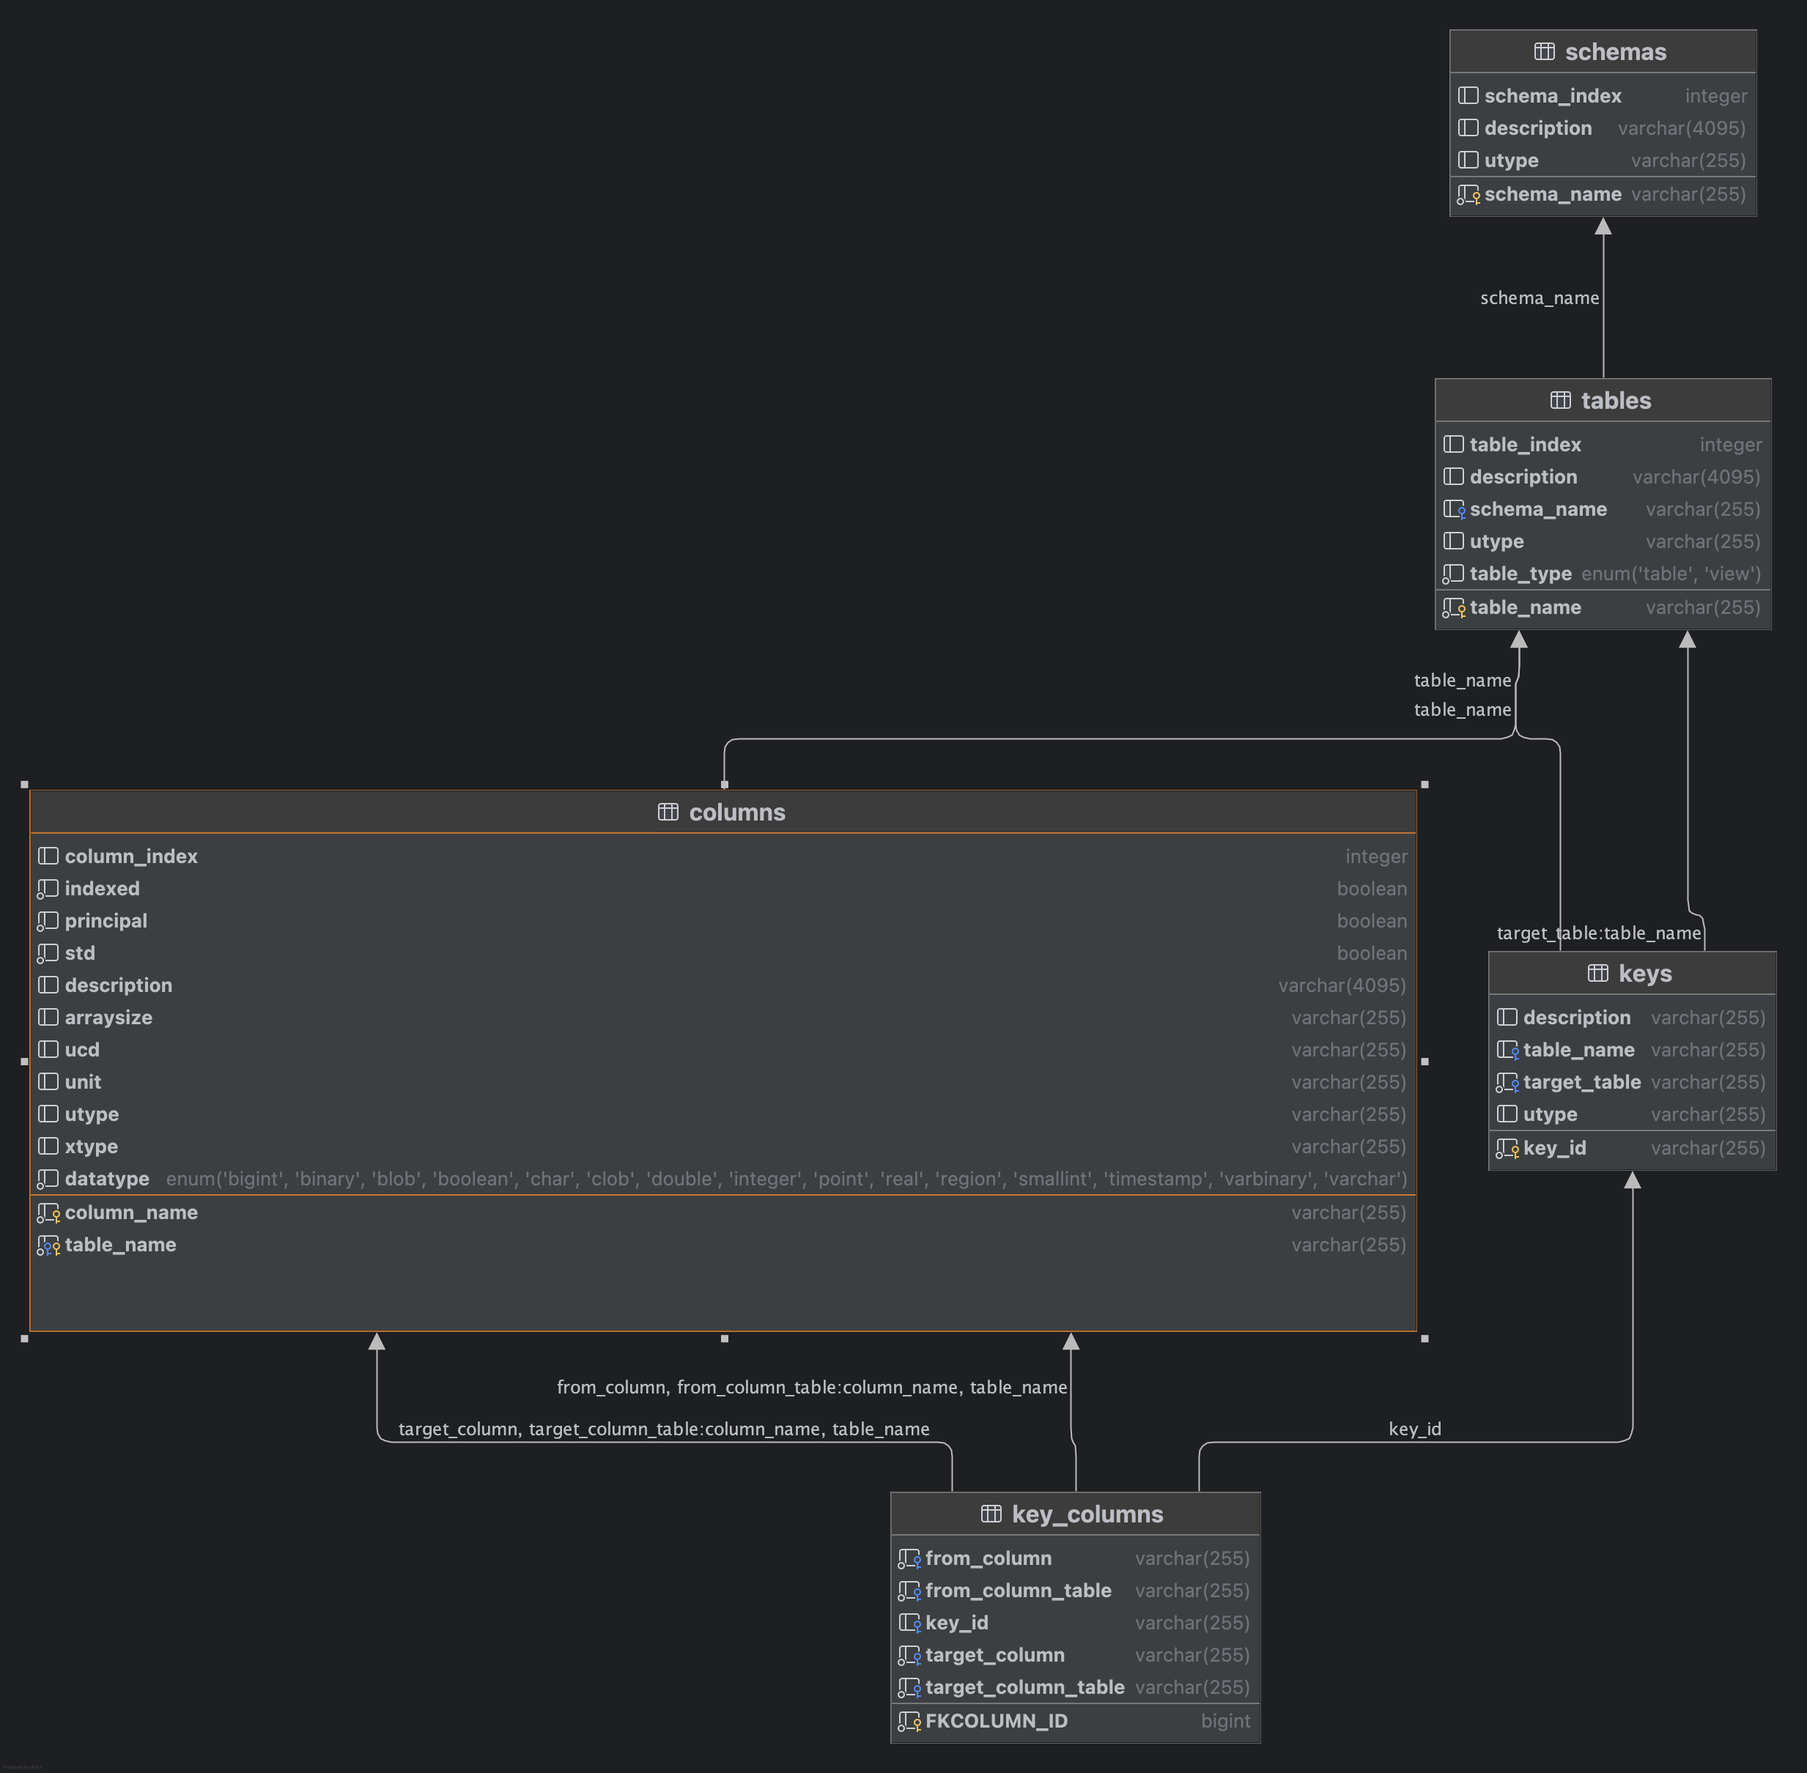
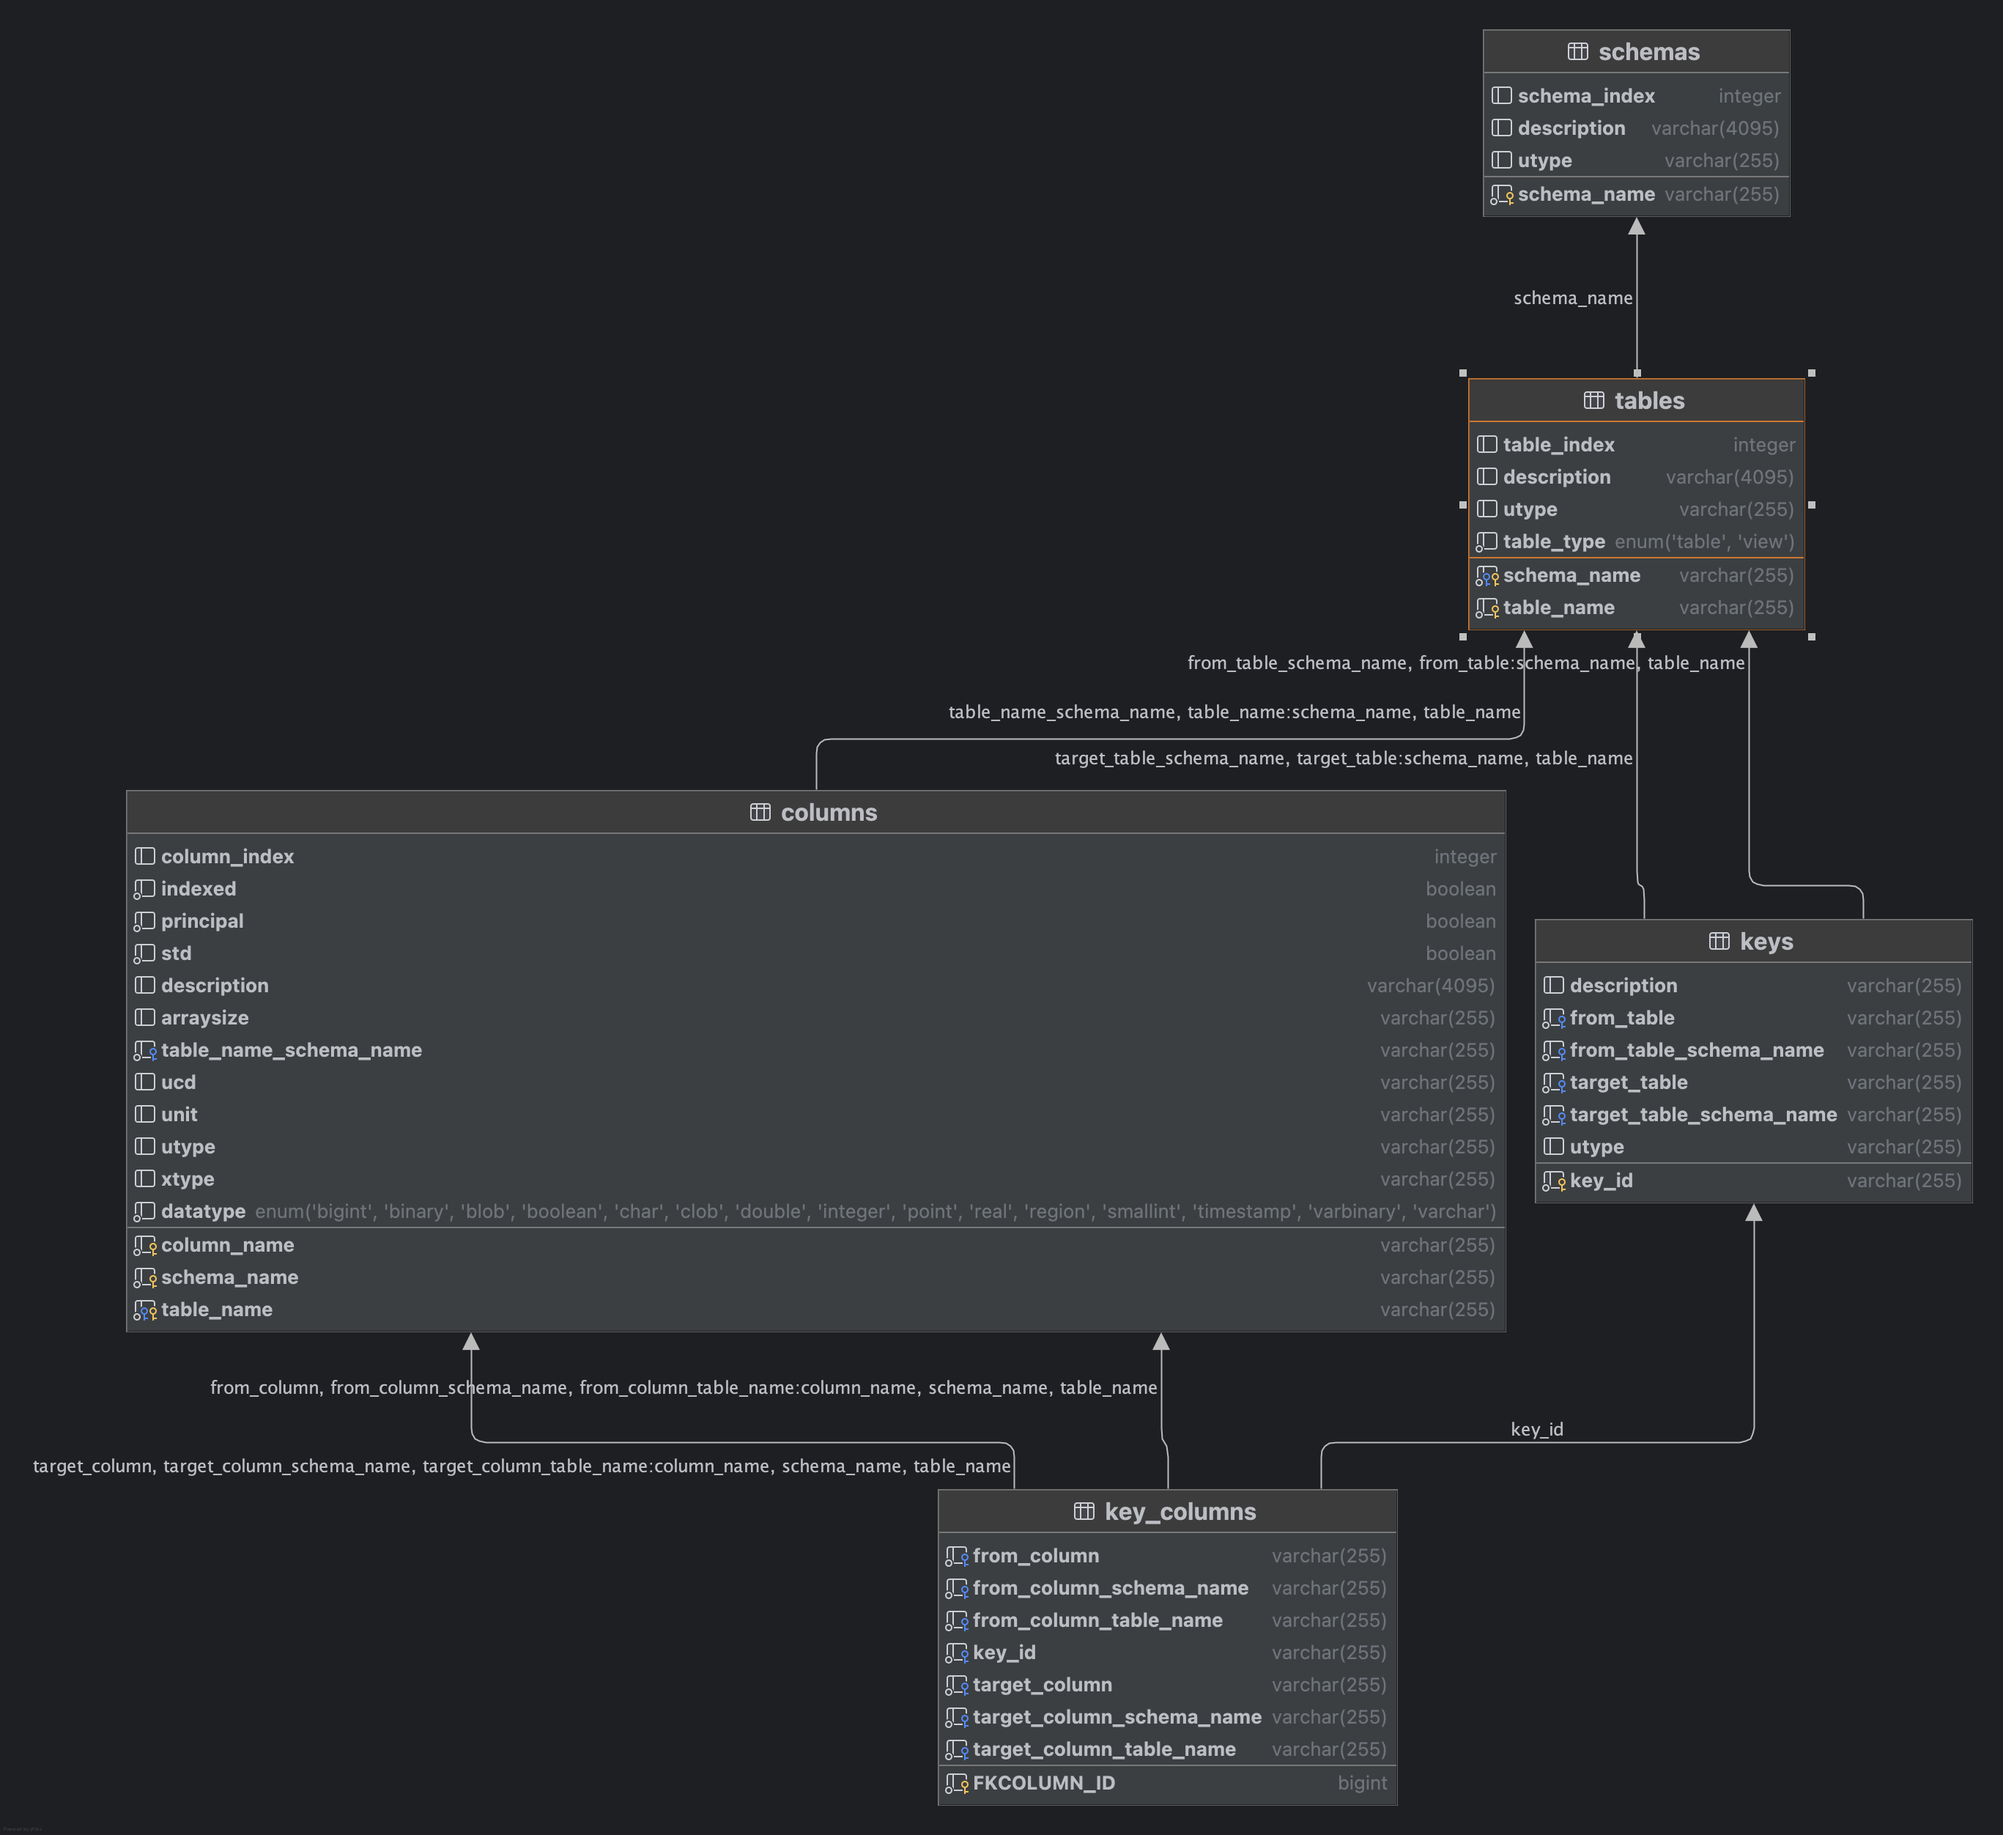
schema redone with full composite natural keys from composition hierarchy

Changed region(s): [[0.0, 0.155, 0.9992, 0.9917], [0.7182, 0.0, 0.9992, 0.124]]

diff --git a/src/main/java/org/ivoa/dm/tapschema/ColNameKeys.java b/src/main/java/org/ivoa/dm/tapschema/ColNameKeys.java
@@ -19,25 +19,18 @@ public class ColNameKeys {
    public static void normalize(TapschemaModel model) {
 
       for (Schema sc: model.getContent(Schema.class)){
+
          for (Table t: sc.getTables()){
+            t.schema_name = sc.schema_name;
             for (Column c: t.getColumns()){
+               c.table_name=t.table_name;
+               c.schema_name=sc.schema_name;
                String cn = c.getColumn_name();
                if(cn.contains(".")) {
                c.setColumn_name(cn.substring(cn.lastIndexOf('.') + 1));
-               c.table_name = cn.substring(0, cn.lastIndexOf('.') );
-               }
-               else {
-                c.table_name=t.table_name;
                }
             }
-            for(ForeignKey k: t.getFkeys())
-            {
-               for(FKColumn c: k.getColumns())
-               {
-                  updateColumName(c.getFrom_column());
-                  updateColumName(c.getTarget_column());
-               }
-            }
+
          }
       }
    }

diff --git a/doc/site/Design.md b/doc/site/Design.md
@@ -20,6 +20,8 @@ In creating this model and associated tooling there are a number of things in th
 * TAPSchema does not explicitly define what primary key for a particular table is - indexed does not mean primary key. It can generally be inferred from the foreign keys on other tables, but this is only true of course if there is a table with which it is joined.
 * Practice as to what the table name is....
   * sometimes it includes the schema name, sometimes not - the standard does say that the name should be able to be used directly in ADQL, but then it makes the inclusion of schema in the model rather superfluous.
+    * this also causes a problem with case sensitivity "schema"."table"
+  * however in a large implementation where there are many tables in different schema then there is a danger of table name clashes.
 
 
 ## Other Implementations of TAP Schema
